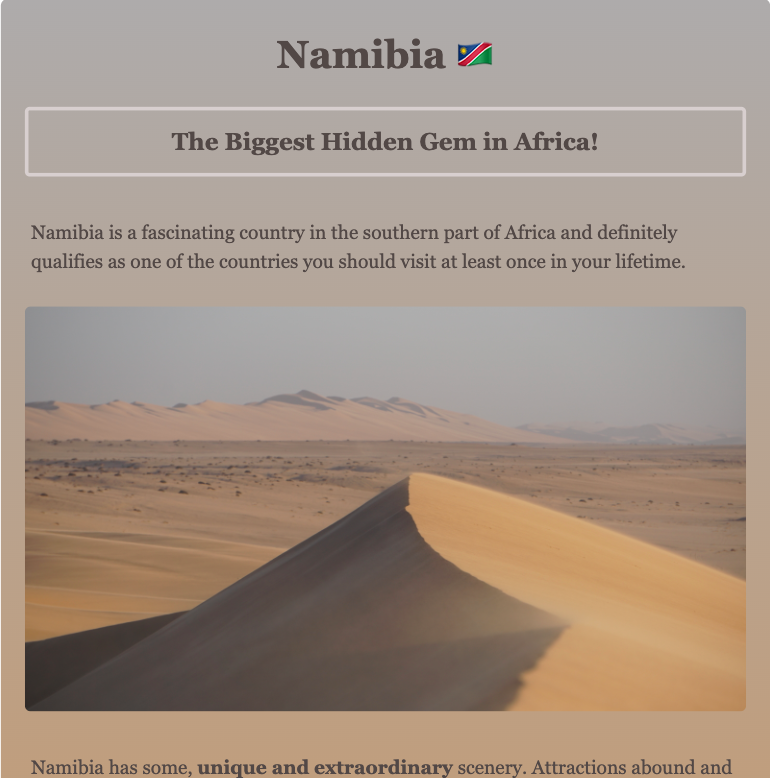
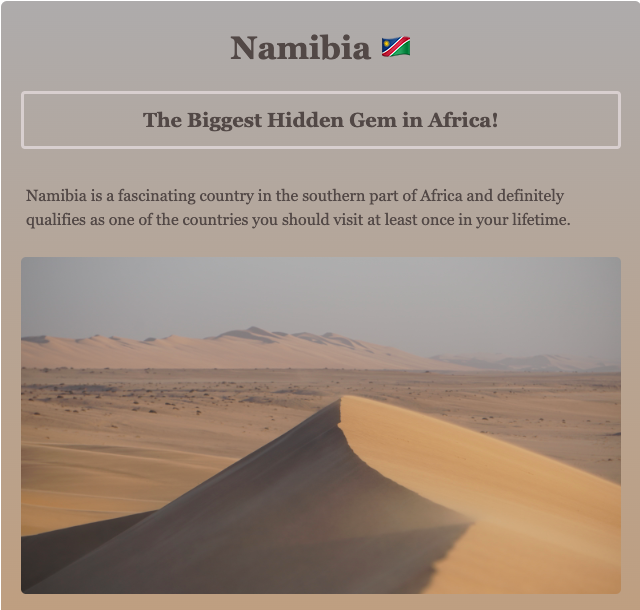
changed font, adjusted over HTMLS

diff --git a/index.html b/index.html
@@ -17,10 +17,13 @@
     ></script>
     <link rel="preconnect" href="https://fonts.googleapis.com" />
     <link rel="preconnect" href="https://fonts.gstatic.com" crossorigin />
-    <link
-      href="https://fonts.googleapis.com/css2?family=Montserrat:ital,wght@1,700&family=Playfair+Display:wght@700&family=Poppins:wght@500;700&display=swap"
-      rel="stylesheet"
-    />
+    <link rel="preconnect" href="https://fonts.googleapis.com">
+<link rel="preconnect" href="https://fonts.gstatic.com" crossorigin>
+<link rel="preconnect" href="https://fonts.googleapis.com">
+<link rel="preconnect" href="https://fonts.gstatic.com" crossorigin>
+<link rel="preconnect" href="https://fonts.googleapis.com">
+<link rel="preconnect" href="https://fonts.gstatic.com" crossorigin>
+<link href="https://fonts.googleapis.com/css2?family=Manrope:wght@700&family=Signika:wght@500&display=swap" rel="stylesheet">
     <script
       src="https://kit.fontawesome.com/8804418e8c.js"
       crossorigin="anonymous"
@@ -69,52 +72,52 @@
       Featured Project which my best projects be choice to show
     </p>
     <div class="text-center">
-        <a href="#" class="btn btn-primary">Read more</a>
+        <a href="/about.html" class="btn btn-primary">Read more</a>
    </div>
 </div>
-   <div class="line-break">
+   <div class="line-break mt-5">
       <hr>
       </div> 
-<div class="homepage-portfolio">
-  <p class="text-center">
+<div class="homepage-portfolio text-center mb-5 mt-3">
+  <p class="text-muted">
       My Portfolio
     </p>
-      <h2 class="text-center">Latest Projects</h2>
-    </div>
-   
-    <div class="content-container container">
-     <div class="content">   
-  
-  <div class="row d-flex">
-<div class="col-md-4">
-<div class="card primary-card" style="width: 18rem;">
+      <h2 class="mb-5">Latest Projects</h2>
+  <div class="container">
+  <div class="row">
+<div class="col-md-4 d-flex justify-content-evenly">
+<div class="card" style="width: 18rem;">
   <img src="images/rerootlogo.png" class="card-img-top img-fluid" alt="...">
   <div class="card-body">
     <h5 class="card-title">Responsive Portfolio</h5>
-    <p class="card-text">Some quick example text to build on the card title and make up the bulk of the card's content.</p>
+    <p class="card-text text-muted">Some quick example text to build on the card title and make up the bulk of the card's content.</p>
   </div>
 </div>
 </div>
-<div class="col-md-4">
+<div class="col-md-4 d-flex justify-content-evenly">
 <div class="card" style="width: 18rem;">
-  <img src="images/weatherapp.png" class="card-img-top img-fluid" alt="...">
+  <img src="images/weatherapp.png" class="card-img-top img-fluid" width="288px" alt="...">
   <div class="card-body">
     <h5 class="card-title">Vanilla JS Weather App</h5>
-    <p class="card-text">Some quick example text to build on the card title and make up the bulk of the card's content.</p>
+    <p class="card-text text-muted">Some quick example text to build on the card title and make up the bulk of the card's content.</p>
 </div>
 </div>
 </div>
-    <div class="col-md-4">
+    <div class="col-md-4 d-flex justify-content-evenly">
 <div class="card" style="width: 18rem;">
   <img src="images/namibiaproject.png" class="card-img-top img-fluid" alt="...">
   <div class="card-body">
     <h5 class="card-title">Single-page Website Example</h5>
-    <p class="card-text">Some quick example text to build on the card title and make up the bulk of the card's content.</p>
+    <p class="card-text text-muted">Some quick example text to build on the card title and make up the bulk of the card's content.</p>
+  </div>
   </div>
 </div>
 </div>
 </div> 
-</div>
+<div class="line-break mt-5">
+      <hr>
+      </div> 
+<div class="container">
       <footer>
         <div class="contact-box d-flex justify-content-between mb-5 d-none d-md-flex">
           <div>
@@ -140,6 +143,7 @@
           </a>
           </div>
       </footer>
+    </div>
     </div>
   </body>
 </html>

diff --git a/contact.html b/contact.html
@@ -18,10 +18,11 @@
     ></script>
     <link rel="preconnect" href="https://fonts.googleapis.com" />
     <link rel="preconnect" href="https://fonts.gstatic.com" crossorigin />
-    <link
-      href="https://fonts.googleapis.com/css2?family=Montserrat:ital,wght@1,700&family=Playfair+Display:wght@700&family=Poppins:wght@500;700&display=swap"
-      rel="stylesheet"
-    />
+  <link rel="preconnect" href="https://fonts.googleapis.com">
+<link rel="preconnect" href="https://fonts.gstatic.com" crossorigin>
+<link rel="preconnect" href="https://fonts.googleapis.com">
+<link rel="preconnect" href="https://fonts.gstatic.com" crossorigin>
+<link href="https://fonts.googleapis.com/css2?family=Manrope:wght@700&family=Signika:wght@500&display=swap" rel="stylesheet">
     <script
       src="https://kit.fontawesome.com/8804418e8c.js"
       crossorigin="anonymous"
@@ -56,9 +57,9 @@
       </div>
       </div>
     </nav>
-    <div class="content-container container">
+    <div class="content-container container text-center">
      <div class="content">
-         <h1 class="mb-5">Let's get in touch</h1>
+        <h1 class="mb-5">Contact me</h1>
          <h3>Email</h3>
          <p>
             <i class="fa-solid fa-envelope"></i>
@@ -75,6 +76,32 @@
             <a href="http://www.instagram.com/kim.timke" target="_blank" >@kim.timke</a>
          </p>
     </div>
-    </div>
+     </div>
+    <footer>
+        <div class="contact-box d-flex justify-content-between mb-5 d-none d-md-flex">
+          <div>
+          <h4>Work Inquiry</h4>
+          <p class="text-muted">Let's work together</p>
+          </div>
+          <div>
+          <a href="" class="btn btn-primary">contact me</a>
+         </div>
+        </div>
+         <div class="d-flex  justify-content-center mb-5">
+        <a href="mailto:timke.kim@gmail.com" class="email-link">timke.kim@gmail.com</a>
+        </div>
+        <div class="social-links d-flex justify-content-center mb-5">
+          <a href="http://www.linkedin.com/in/kim-timke-seebach-a46a99183" target="_blank"">
+         <i class="fa-brands fa-linkedin"></i>
+         </a>
+         <a href="http://www.instagram.com/kim.timke" target="_blank">
+         <i class="fa-brands fa-instagram"></i>
+         </a>
+         <a href="https://github.com/kimtimke" target="_blank">
+          <i class="fa-brands fa-github"></i>
+          </a>
+          </div>
+      </footer>
+   <div>
   </body>
 </html>

diff --git a/styles/styles.css b/styles/styles.css
@@ -1,8 +1,8 @@
 :root {
   --primary-color: #b5c588;
-  --secondary-color: #f9f7fe;
-  --heading-font-family: "Playfair Display", serif;
-  --default-font-family: "Poppins", sans-serif;
+  --secondary-color: #d1d0d5;
+  --heading-font-family: "Signika", sans-serif;
+  --default-font-family: "Manrope", sans-serif;
 }
 
 body {
@@ -43,7 +43,7 @@ p {
 .hero {
   background-color: var(--secondary-color);
   text-align: center;
-  padding: 160px 20px;
+  padding: 120px 20px;
 }
 
 .hero p {
@@ -61,7 +61,7 @@ p {
 }
 
 .content-container {
-  padding: 160px 20px;
+  padding: 100px 20px;
 }
 
 .content-container h1 {
@@ -134,11 +134,28 @@ p {
   color: var(--primary-color);
 }
 
-footer .email-link {
+.card {
+  box-shadow: 0px 5px 10px, rgba (0, 20, 10, 10);
+  border: none;
+}
+
+.card-body {
+  text-align: left;
+}
+
+.card-title {
+  font-size: 18px;
+}
+
+.card-text footer .email-link {
   text-decoration: none;
   color: black;
   font-size: 24px;
   text-align: center;
+}
+
+footer .contact-box {
+  background-color: var(--primary-color);
 }
 
 footer .email-link:hover {

diff --git a/about.html b/about.html
@@ -18,10 +18,11 @@
     ></script>
     <link rel="preconnect" href="https://fonts.googleapis.com" />
     <link rel="preconnect" href="https://fonts.gstatic.com" crossorigin />
-    <link
-      href="https://fonts.googleapis.com/css2?family=Montserrat:ital,wght@1,700&family=Playfair+Display:wght@700&family=Poppins:wght@500;700&display=swap"
-      rel="stylesheet"
-    />
+  <link rel="preconnect" href="https://fonts.googleapis.com">
+<link rel="preconnect" href="https://fonts.gstatic.com" crossorigin>
+<link rel="preconnect" href="https://fonts.googleapis.com">
+<link rel="preconnect" href="https://fonts.gstatic.com" crossorigin>
+<link href="https://fonts.googleapis.com/css2?family=Manrope:wght@700&family=Signika:wght@500&display=swap" rel="stylesheet">
     <script
       src="https://kit.fontawesome.com/8804418e8c.js"
       crossorigin="anonymous"

diff --git a/projects.html b/projects.html
@@ -18,10 +18,11 @@
     ></script>
     <link rel="preconnect" href="https://fonts.googleapis.com" />
     <link rel="preconnect" href="https://fonts.gstatic.com" crossorigin />
-    <link
-      href="https://fonts.googleapis.com/css2?family=Montserrat:ital,wght@1,700&family=Playfair+Display:wght@700&family=Poppins:wght@500;700&display=swap"
-      rel="stylesheet"
-    />
+  <link rel="preconnect" href="https://fonts.googleapis.com">
+<link rel="preconnect" href="https://fonts.gstatic.com" crossorigin>
+<link rel="preconnect" href="https://fonts.googleapis.com">
+<link rel="preconnect" href="https://fonts.gstatic.com" crossorigin>
+<link href="https://fonts.googleapis.com/css2?family=Manrope:wght@700&family=Signika:wght@500&display=swap" rel="stylesheet">
     <script
       src="https://kit.fontawesome.com/8804418e8c.js"
       crossorigin="anonymous"
